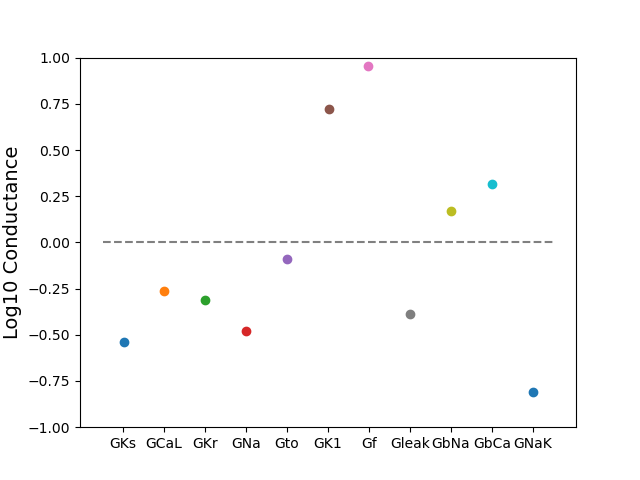
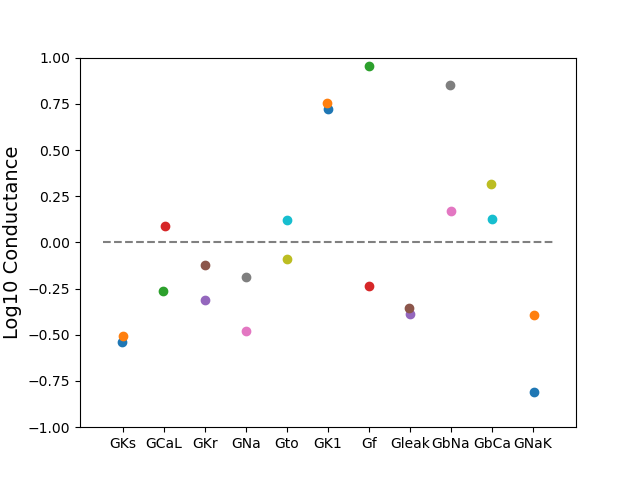
newind

diff --git a/GA_cond/plot_GA.py b/GA_cond/plot_GA.py
@@ -14,9 +14,9 @@ from scipy.signal import find_peaks
 t, v = baseline_run()
 plt.plot(t, v, '-k', label = 'Baseline')
 
-ind_1 = ind_excel()
+ind_1, ind_2 = ind_excel()
 
-pop = [ind_1]
+pop = [ind_1, ind_2]
 
 for i in list(range(0,len(pop))):
     t, v = plot_GA(pop[i])
@@ -58,9 +58,9 @@ ap_features['mdp']= mdp
 ############ PLOT BEST ERROR ################
 gen = [i for i in list(range(1,80))]
 
-err_1 = err_excel()
+err_1, err_2 = err_excel()
 
-err = [err_1]
+err = [err_1, err_2]
 
 for i in list(range(0,len(err))):
     best_err = list(err[i]['Avg Error'])
@@ -76,7 +76,6 @@ plt.show()
 
 #%% 
 ########## PLOT CONDUCTANCES ############
-pop = [ind_1]
 trials = []
 
 for i in list(range(0,len(pop))):

diff --git a/GA_cond/functions.py b/GA_cond/functions.py
@@ -148,13 +148,20 @@ def plot_cond(ind, lab):
 
 #%%
 def ind_excel():
+
     ind_1 = pd.read_excel('Best_ind1.xlsx')
     ind_1 = ind_1.to_dict('index')
 
-    return ind_1
+    ind_2 = pd.read_excel('Best_ind2.xlsx')
+    ind_2 = ind_2.to_dict('index')
+
+    return ind_1, ind_2
 
 #%%
 def err_excel():
+
     err_1 = pd.read_excel('Errors1.xlsx')
 
-    return err_1
+    err_2 = pd.read_excel('Errors2.xlsx')
+
+    return err_1, err_2
